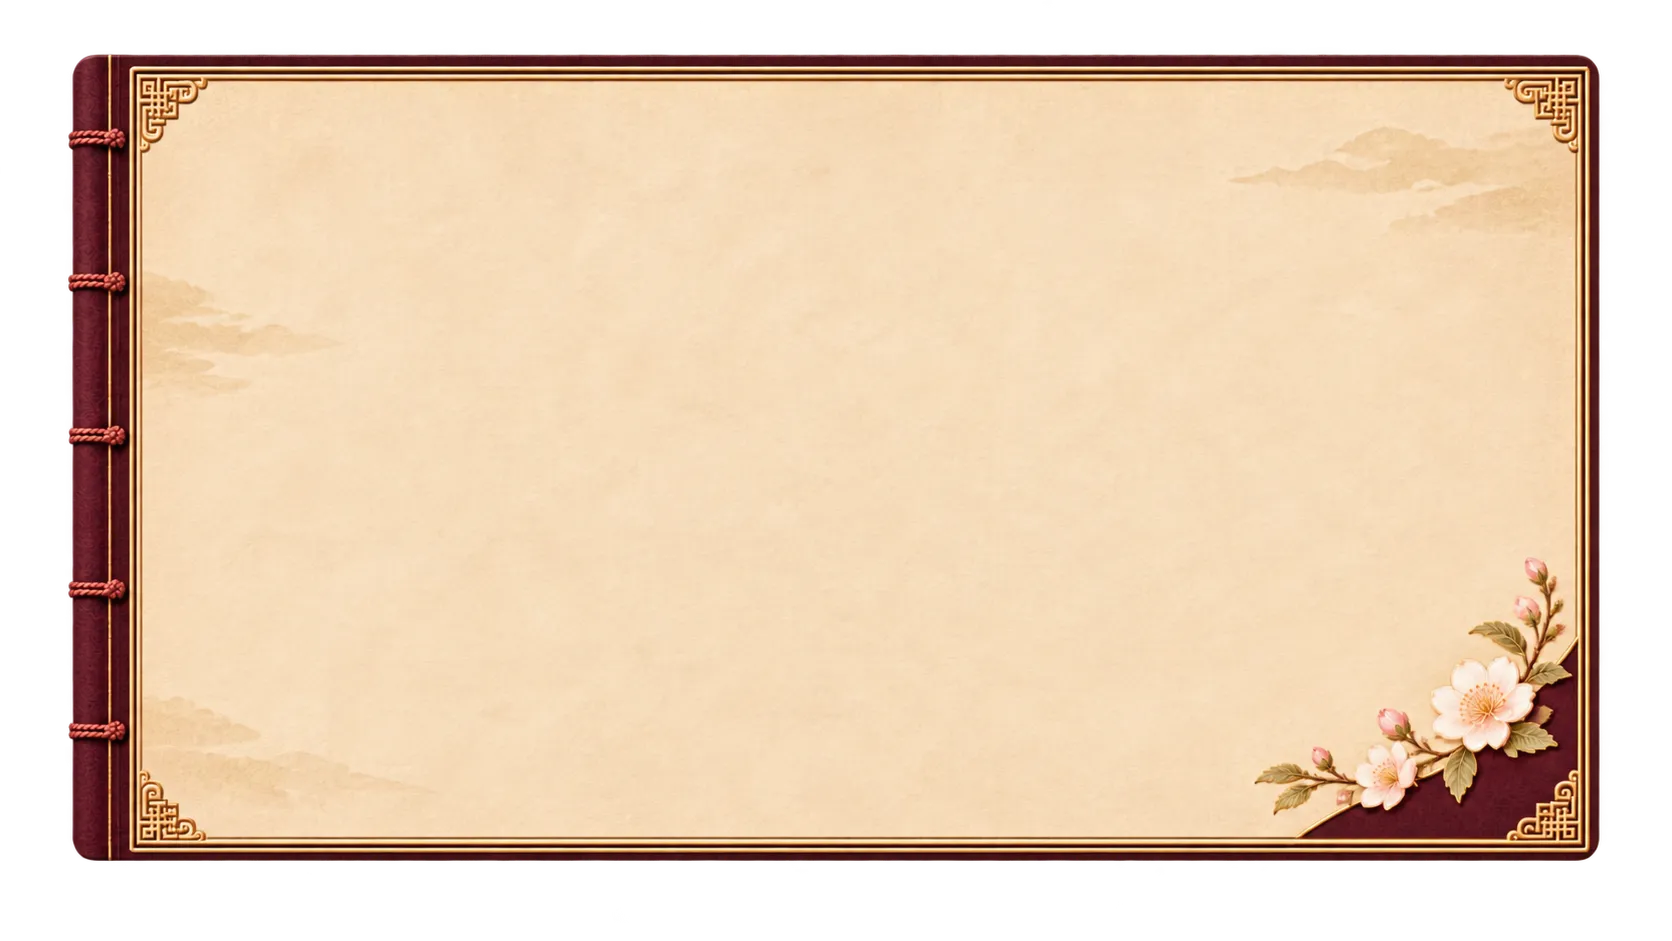
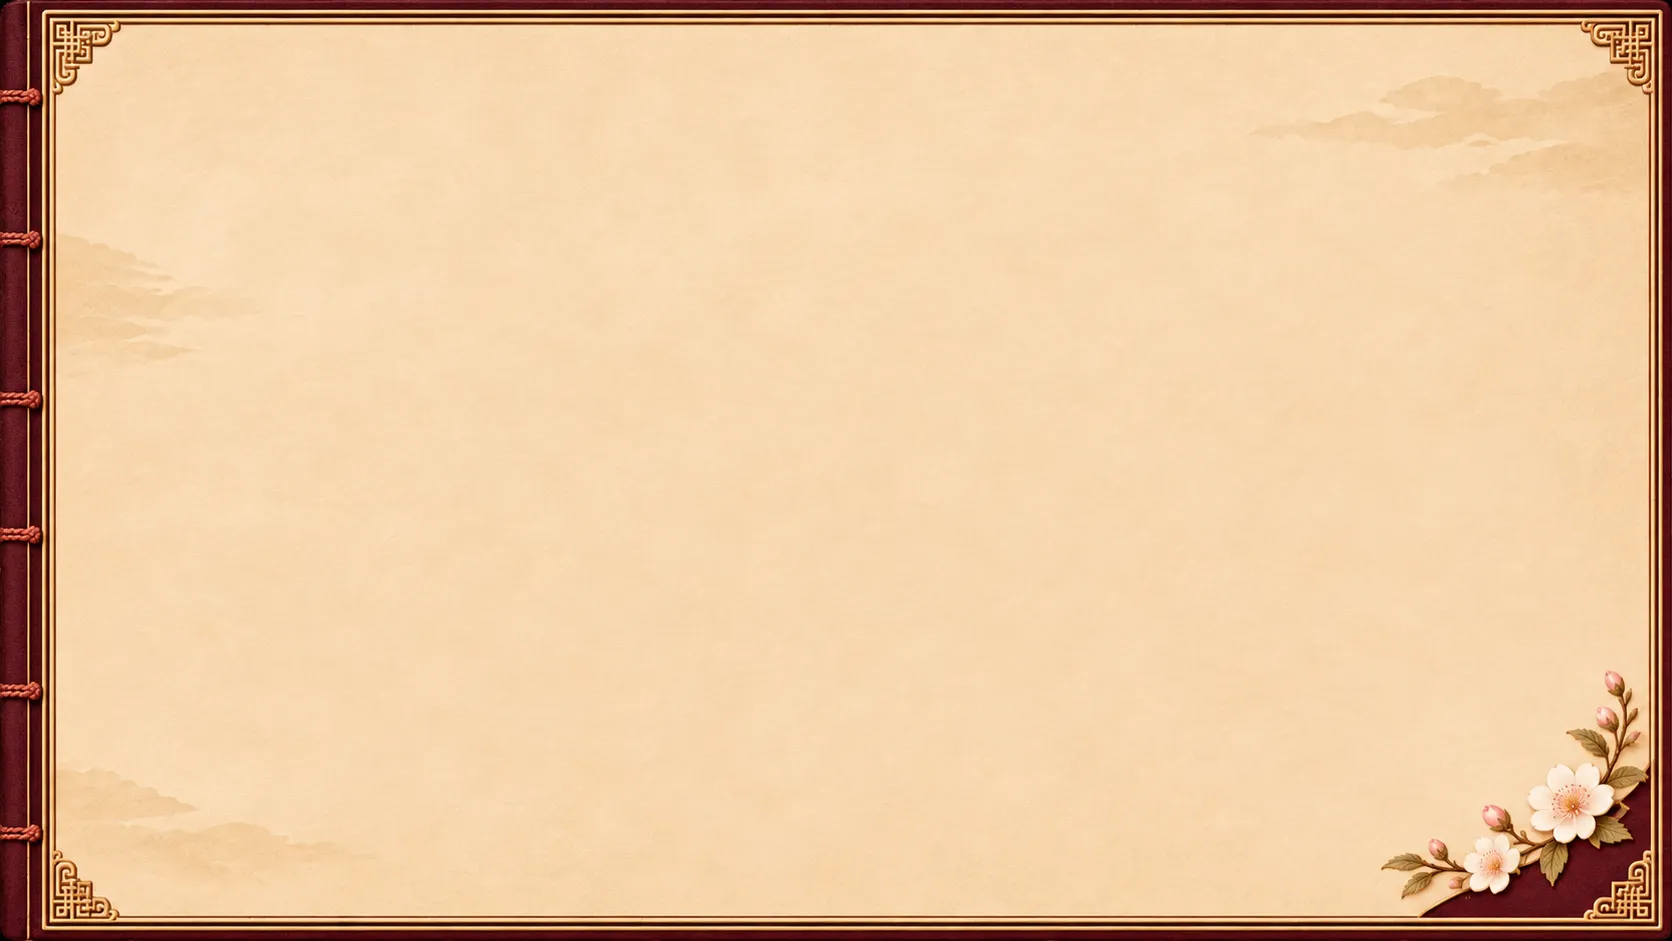
feat(about): 브랜드 탄생 이야기 신규 16:9 한지 배경 교체 및 문단 간격 최종 최적화
- 브랜드 탄생 이야기(THE ORIGIN OF BAEKDOHWA) 신규 16:9 한지 배경(origin-hanji-v2.webp) 최신 파일 반영
- 분할·슬라이스 없는 단일 배경으로 연결 경계선 및 세로 왜곡 완전 해소
- 일반 문단 간격 8~10px 축소 및 주요 전환부 16px 적용으로 서책형 본문 가독성 극대화
- 좌우 및 상하 패딩 최적화로 전체 영역 슬림화
- 18px 폰트 크기, 1.7 줄 간격, 먹갈색/버건디 타이포그래피 완전 보존

diff --git a/components/about/BrandOriginSection.tsx b/components/about/BrandOriginSection.tsx
@@ -37,7 +37,7 @@ export default function BrandOriginSection() {
               backgroundColor: '#F5DBB9',
             }}
           >
-            {/* 3-1. 단일 16:9 한지 배경 이미지 (분할 없음, 경계선 없음, 노리개·꽃·구름 문양 원본 비율 보존) */}
+            {/* 3-1. 단일 16:9 한지 배경 이미지 (분할 없음, 경계선 없음, 제본·골드테두리·복숭아꽃 원본 비율 보존) */}
             <div className="absolute inset-0 z-0 pointer-events-none">
               <Image
                 src="/image/origin-hanji-v2.webp"
@@ -49,48 +49,48 @@ export default function BrandOriginSection() {
               />
             </div>
 
-            {/* 3-2. 카드 본문 콘텐츠 (z-10, 상하 패딩 40~48px, 노리개/꽃 안전 여백, 문단 간격 8~12px) */}
-            <div className="relative z-10 w-full py-10 sm:py-12 pl-6 sm:pl-16 md:pl-28 lg:pl-36 pr-6 sm:pr-12 md:pr-24 lg:pr-32">
-              <div className="max-w-[960px] mx-auto">
-                {/* 본문 에세이 (18px 유지, 줄간격 1.7 유지, 문단 간격 8~12px 축소, 주요 전환부 18~20px, 먹갈색 본문, 딥 버건디 강조) */}
-                <div className="space-y-2.5 sm:space-y-3 text-[17px] sm:text-[18px] leading-[1.7] text-[#493A35] font-normal break-keep text-left">
-                  <p>
+            {/* 3-2. 카드 본문 콘텐츠 (z-10, 상하 패딩 40~48px, 가로공간 최적화, 문단 간격 8~10px/16px) */}
+            <div className="relative z-10 w-full py-10 sm:py-12 pl-6 sm:pl-14 md:pl-20 lg:pl-24 pr-6 sm:pr-10 md:pr-14 lg:pr-18">
+              <div className="max-w-[1040px] mx-auto">
+                {/* 본문 에세이 (18px 유지, 줄간격 1.7 유지, 일반 문단 간격 8~10px, 주요 전환부 16px, 먹갈색 본문, 딥 버건디 강조) */}
+                <div className="text-[17px] sm:text-[18px] leading-[1.7] text-[#493A35] font-normal break-keep text-left">
+                  <p className="mb-2 sm:mb-2.5">
                     백도화(白桃花)의 시작에는 하나의 질문이 있었습니다.
                   </p>
 
-                  <p>
+                  <p className="mb-2 sm:mb-2.5">
                     <strong className="font-semibold text-[#6B2E3A]">
                       사람마다 타고난 기질과 매력, 세상을 바라보는 방식이 다른데, 왜 사랑과 관계, 풍요에 대한 조언은 모두에게 같아야 하는가.
                     </strong>
                   </p>
 
-                  <p>
+                  <p className="mb-4">
                     어떤 사람에게 용기가 필요한 순간이, 다른 사람에게는 멈춤이 필요한 순간입니다. 누군가에게는 새로운 인연을 선택하는 것이 성장이고, 또 누군가에게는 익숙한 관계의 패턴을 알아차리는 것이 변화의 시작입니다. 같은 조언이 누군가에게는 약이 되고, 누군가에게는 같은 상처를 되풀이하게 만드는 이유입니다.
                   </p>
 
-                  {/* 주요 문단 구분 여백 18~20px */}
-                  <p className="pt-2 sm:pt-2.5">
+                  {/* 주요 내용 구분 여백 16px (mb-4 적용 후 전환) */}
+                  <p className="mb-2 sm:mb-2.5">
                     오랜 마음공부와 명상으로 자신을 관찰하며 발견한 것은, <strong className="font-semibold text-[#6B2E3A]">삶 속에서 반복되는 감정과 선택의 패턴</strong>이었습니다.
                   </p>
 
-                  <p>
+                  <p className="mb-2 sm:mb-2.5">
                     사람은 달라져도 반복되는 관계, 환경은 달라져도 익숙한 감정, 새로운 기회 앞에서도 되풀이되는 선택.
                   </p>
 
-                  <p>
+                  <p className="mb-4">
                     그 반복의 뿌리에는 미처 알아차리지 못한 신념과 경험, 무의식적인 반응이 있었습니다. 그 패턴을 읽지 못하면, 상대가 바뀌어도 같은 장면이 되풀이됩니다.
                   </p>
 
-                  {/* 주요 문단 구분 여백 18~20px */}
-                  <p className="pt-2 sm:pt-2.5">
+                  {/* 주요 내용 구분 여백 16px (mb-4 적용 후 전환) */}
+                  <p className="mb-2 sm:mb-2.5">
                     이러한 탐구는 동양의 명리학에서 심리학과 무의식, NLP, 뇌과학과 브레인트레이닝, 명상에 이르기까지 다양한 분야의 공부로 이어졌습니다.
                   </p>
 
-                  <p>
+                  <p className="mb-2 sm:mb-2.5">
                     명리로 타고난 기질을 읽고, 마음에 대한 이해로 살아오며 형성된 패턴을 돌아보고, 새로운 인식과 실천으로 앞으로의 삶을 설계하는 것.
                   </p>
 
-                  <p>
+                  <p className="mb-2 sm:mb-2.5">
                     서로 다른 지식의 경계를 넘어 이 관점들을 하나로 엮어낸 결과가 <strong className="font-semibold text-[#6B2E3A]">백도화의 선천코드 리포트와 비첩</strong>입니다.
                   </p>
 
@@ -100,16 +100,16 @@ export default function BrandOriginSection() {
                 </div>
 
                 {/* 4. 하단 가로 구분선 (은은한 딥 버건디 라인, 콤팩트 여백) */}
-                <div className="w-24 sm:w-28 h-[1px] bg-[#6B2E3A] opacity-25 my-4 sm:my-5 mx-auto" />
+                <div className="w-24 sm:w-28 h-[1px] bg-[#6B2E3A] opacity-25 my-3.5 sm:my-4 mx-auto" />
 
                 {/* 5. 하단 브랜드 철학 강조 문구 (딥 버건디 #6B2E3A, 붓글씨, 중앙 정렬, 콤팩트 여백) */}
-                <div className="text-center space-y-1.5">
-                  <p className="text-xl sm:text-2xl md:text-[25px] font-elegant font-bold text-[#6B2E3A] leading-[1.4] break-keep">
+                <div className="text-center space-y-1">
+                  <p className="text-xl sm:text-2xl md:text-[25px] font-elegant font-bold text-[#6B2E3A] leading-[1.35] break-keep">
                     태어난 나를 이해하고,<br />
                     형성된 나를 알아차리며,<br />
                     앞으로의 나를 스스로 만들어 가는 것.
                   </p>
-                  <p className="text-base sm:text-lg md:text-[21px] font-elegant font-bold text-[#6B2E3A] opacity-95 leading-[1.4] break-keep pt-1">
+                  <p className="text-base sm:text-lg md:text-[21px] font-elegant font-bold text-[#6B2E3A] opacity-95 leading-[1.35] break-keep pt-0.5">
                     그것이 백도화가 존재하는 이유입니다.
                   </p>
                 </div>
